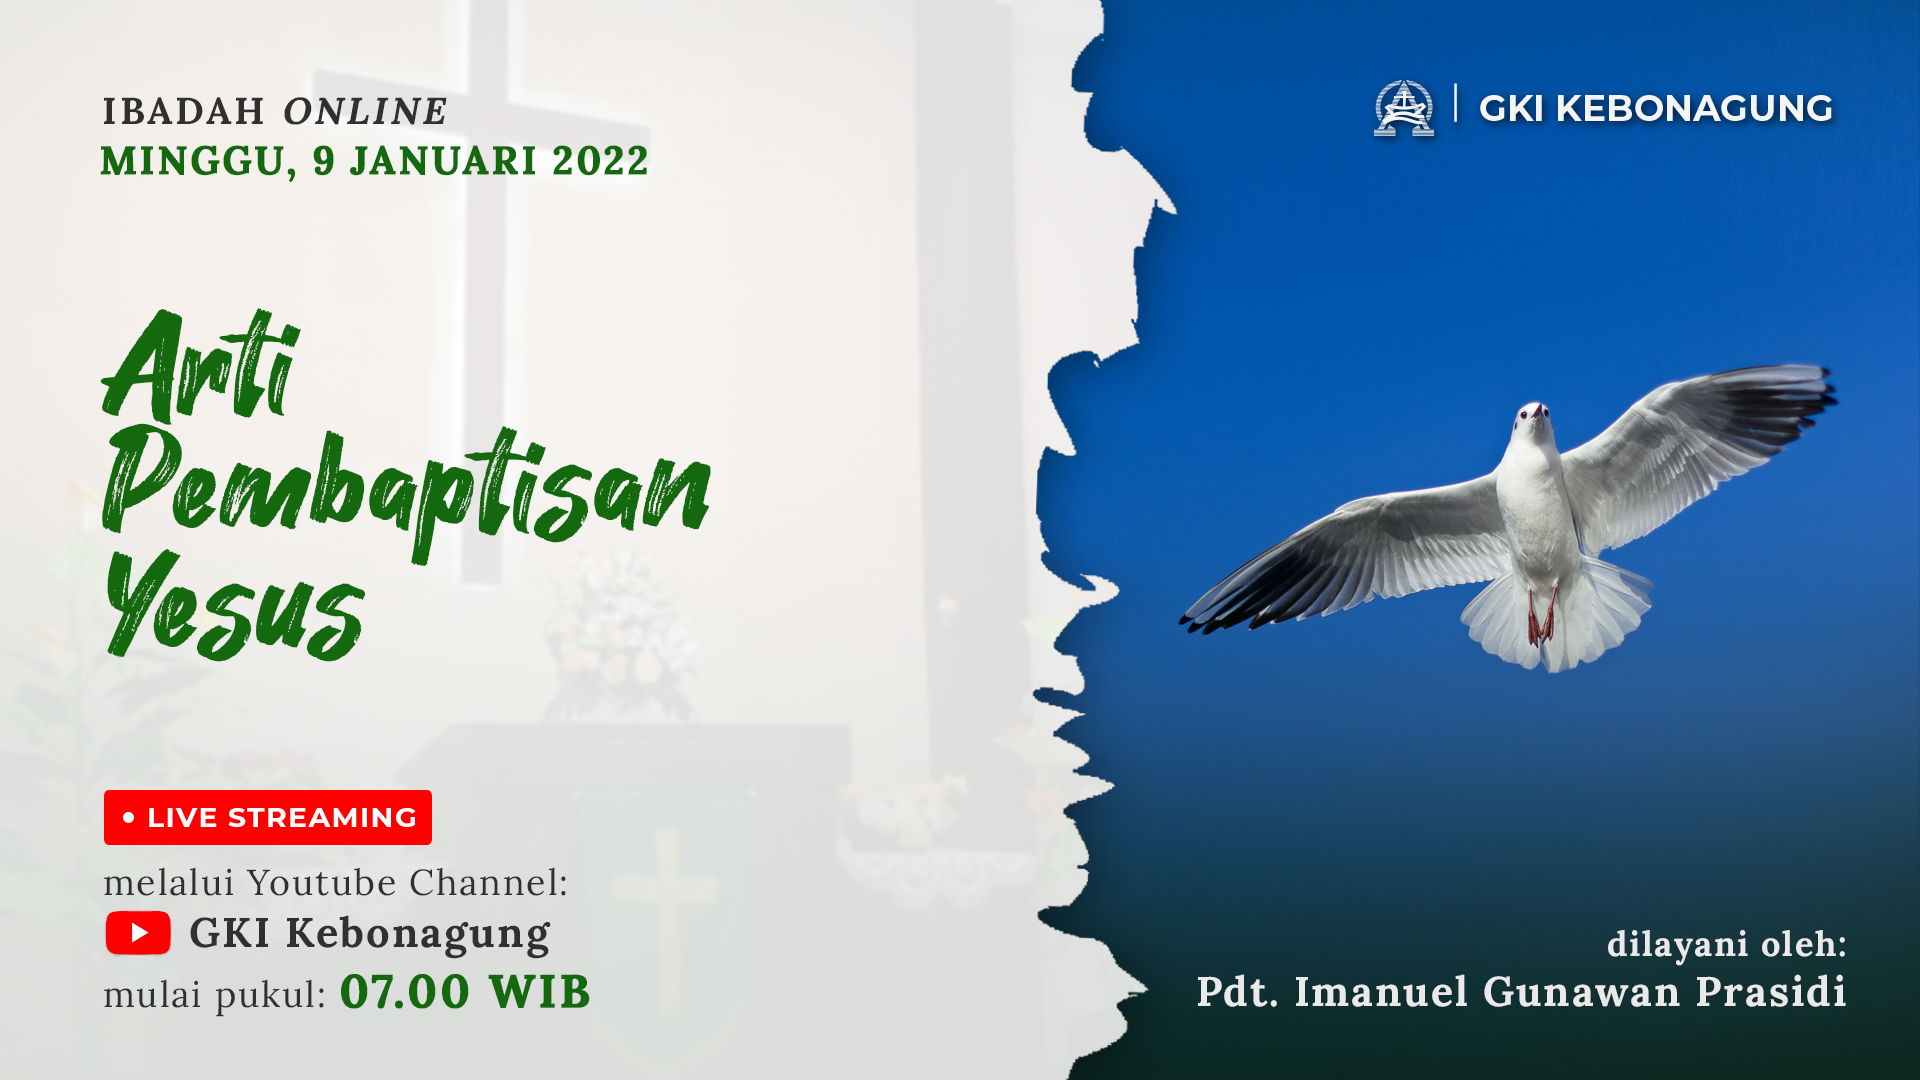
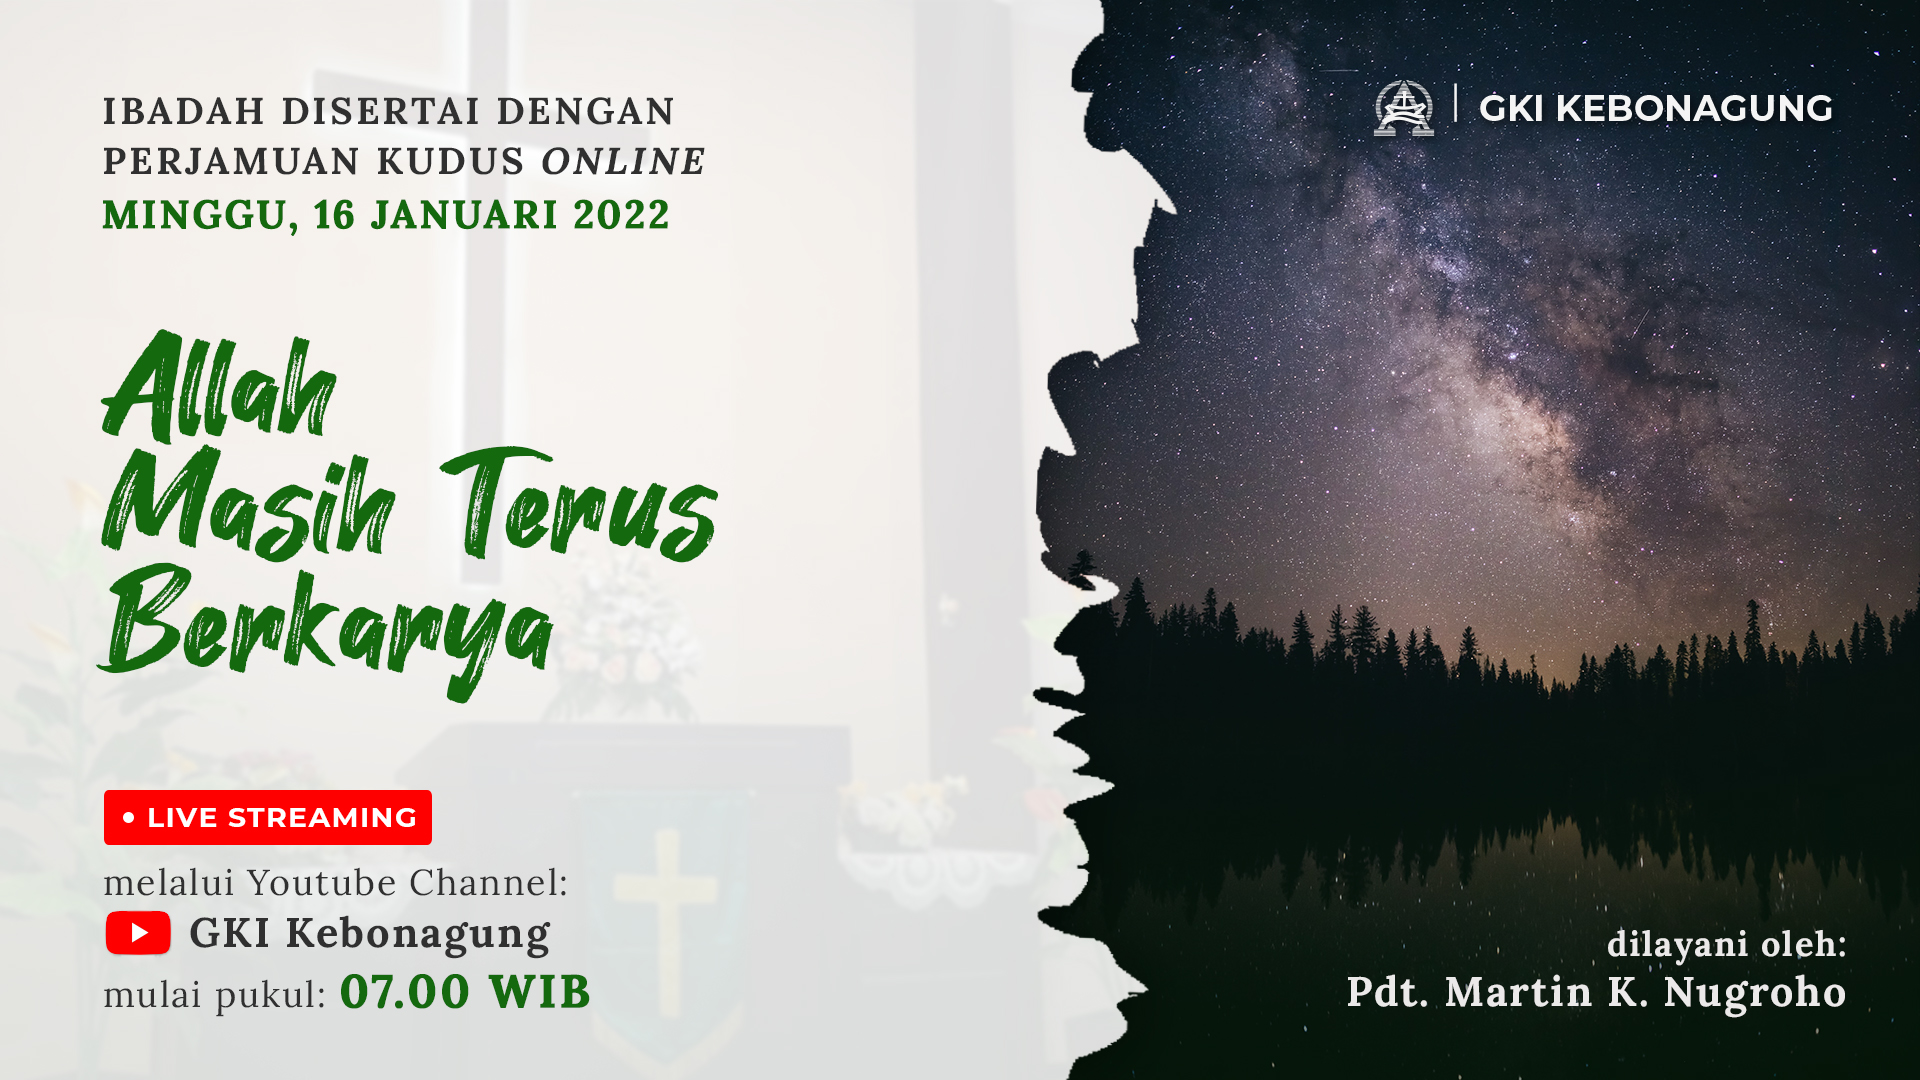
1

diff --git a/assets/css/sb-admin-2.css b/assets/css/sb-admin-2.css
@@ -11640,6 +11640,23 @@ a:focus {
   }
 }
 
+.chartWrapper {
+  position: relative;
+}
+
+.chartWrapper > canvas {
+  position: absolute;
+  left: 0;
+  top: 0;
+  pointer-events:none;
+}
+
+.chartAreaWrapper {
+  width: 100px;
+  overflow-x: scroll;
+}
+
+
 .bg-login-image {
   background: url("https://source.unsplash.com/K4mSJ7kc0As/600x800");
   background-position: center;

diff --git a/application/views/Front/vLandingpage.php b/application/views/Front/vLandingpage.php
@@ -93,23 +93,23 @@
                     <div class="mt-5">
                         <div class="card text-center shadow mx-3">
                             <!-- UBAH -->
-                            <a href="https://youtu.be/pivLblj7rtE" target="_blank" class="text-decoration-none">
+                            <a href="https://youtu.be/YW0rhfi4rok" target="_blank" class="text-decoration-none">
                                 <img src="<?= base_url() ?>front/assets/img/umum.jpg" class="card-img-top">
                             </a>
                             <div class="card-body">
                                 <h4 class="card-title">Ibadah Umum</h4>
                                 <!-- UBAH -->
-                                <p class="card-text">"Arti Pembaptisan Yesus"<br>Minggu, 9 Januari 2022 - 07.00 WIB<br>Pdt. Imanuel Gunawan Prasidi</p>
+                                <p class="card-text">"Allah Masih Terus Berkarya"<br>Minggu, 16 Januari 2022 - 07.00 WIB<br>Pdt. Martin K. Nugroho</p>
                             </div>
                             <div class="card-body">
                                 <!-- UBAH -->
                                 <a href="<?= base_url() ?>Fronts/pilihOnsite" class="btn btn-primary mb-2 px-5 mx-1" style="border-radius: 10rem; font-size: 11pt">Onsite</a>
-                                <a href="https://youtu.be/pivLblj7rtE" target="_blank" class="btn btn-primary mb-2 px-5 mx-1" style="border-radius: 10rem; font-size: 11pt">Online</a>
+                                <a href="https://youtu.be/YW0rhfi4rok" target="_blank" class="btn btn-primary mb-2 px-5 mx-1" style="border-radius: 10rem; font-size: 11pt">Online</a>
                             </div>
                         </div>
                     </div>
                 </div>
-                <div class="col-lg-4 text-center">
+                <div class="col-lg-4 text-center d-none">
                     <div class="mt-5">
                         <div class="card text-center shadow mx-3">
                             <!-- UBAH -->

diff --git a/application/views/Admin/vAdminDashboard.php b/application/views/Admin/vAdminDashboard.php
@@ -130,6 +130,7 @@
 <script>
   var ctx = document.getElementById('myChart').getContext('2d');
   var cData = JSON.parse('<?php echo $kehadiran; ?>');
+
   var myChart = new Chart(ctx, {
     type: 'line',
     data: {
@@ -257,7 +258,7 @@
             return datasetLabel + ': ' + number_format(tooltipItem.yLabel);
           }
         }
-      }
+      },
     }
   });
 
@@ -288,6 +289,9 @@
       bulan = "11";
     } else if (convert[1] == "Desember") {
       bulan = "12";
+    }
+    if (parseInt(convert[0]) < 10) {
+      convert[0] = "0" + convert[0];
     }
     return "IB" + convert[0] + bulan + convert[2];
   }
